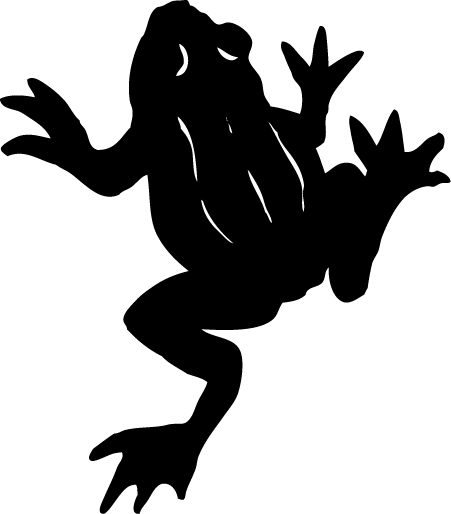
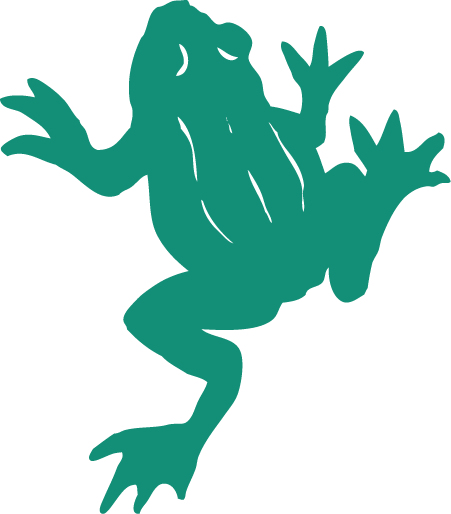
New colors, new sightings ++++

diff --git a/src/assets/styles/_components.scss b/src/assets/styles/_components.scss
@@ -438,6 +438,7 @@
 
 .item {
     @include customVar(background-color, paletteColor0);
+    background-color: #e9f7ef;
     border-radius: 10px;
     display: flex;
     flex-direction: column;
@@ -550,6 +551,7 @@
 
     &__details {
         @include customVar(border-top-color, paletteColor1);
+        border-top-color: #D1F2EB;
         border-top-style: solid;
         border-top-width: 2px;
         display: grid;

diff --git a/src/assets/styles/_settings.scss b/src/assets/styles/_settings.scss
@@ -13,7 +13,7 @@ $vars: (
   clrWhite: #ffffff, 
   clrPrimary: #587973,
   clrAccent: #a3e4d7,
-  clrWash: #d1f2eb,
+  clrWash: #d5f5e3,
 
   paletteColor0: #ededed,
   paletteColor1: #e3e3e3,
